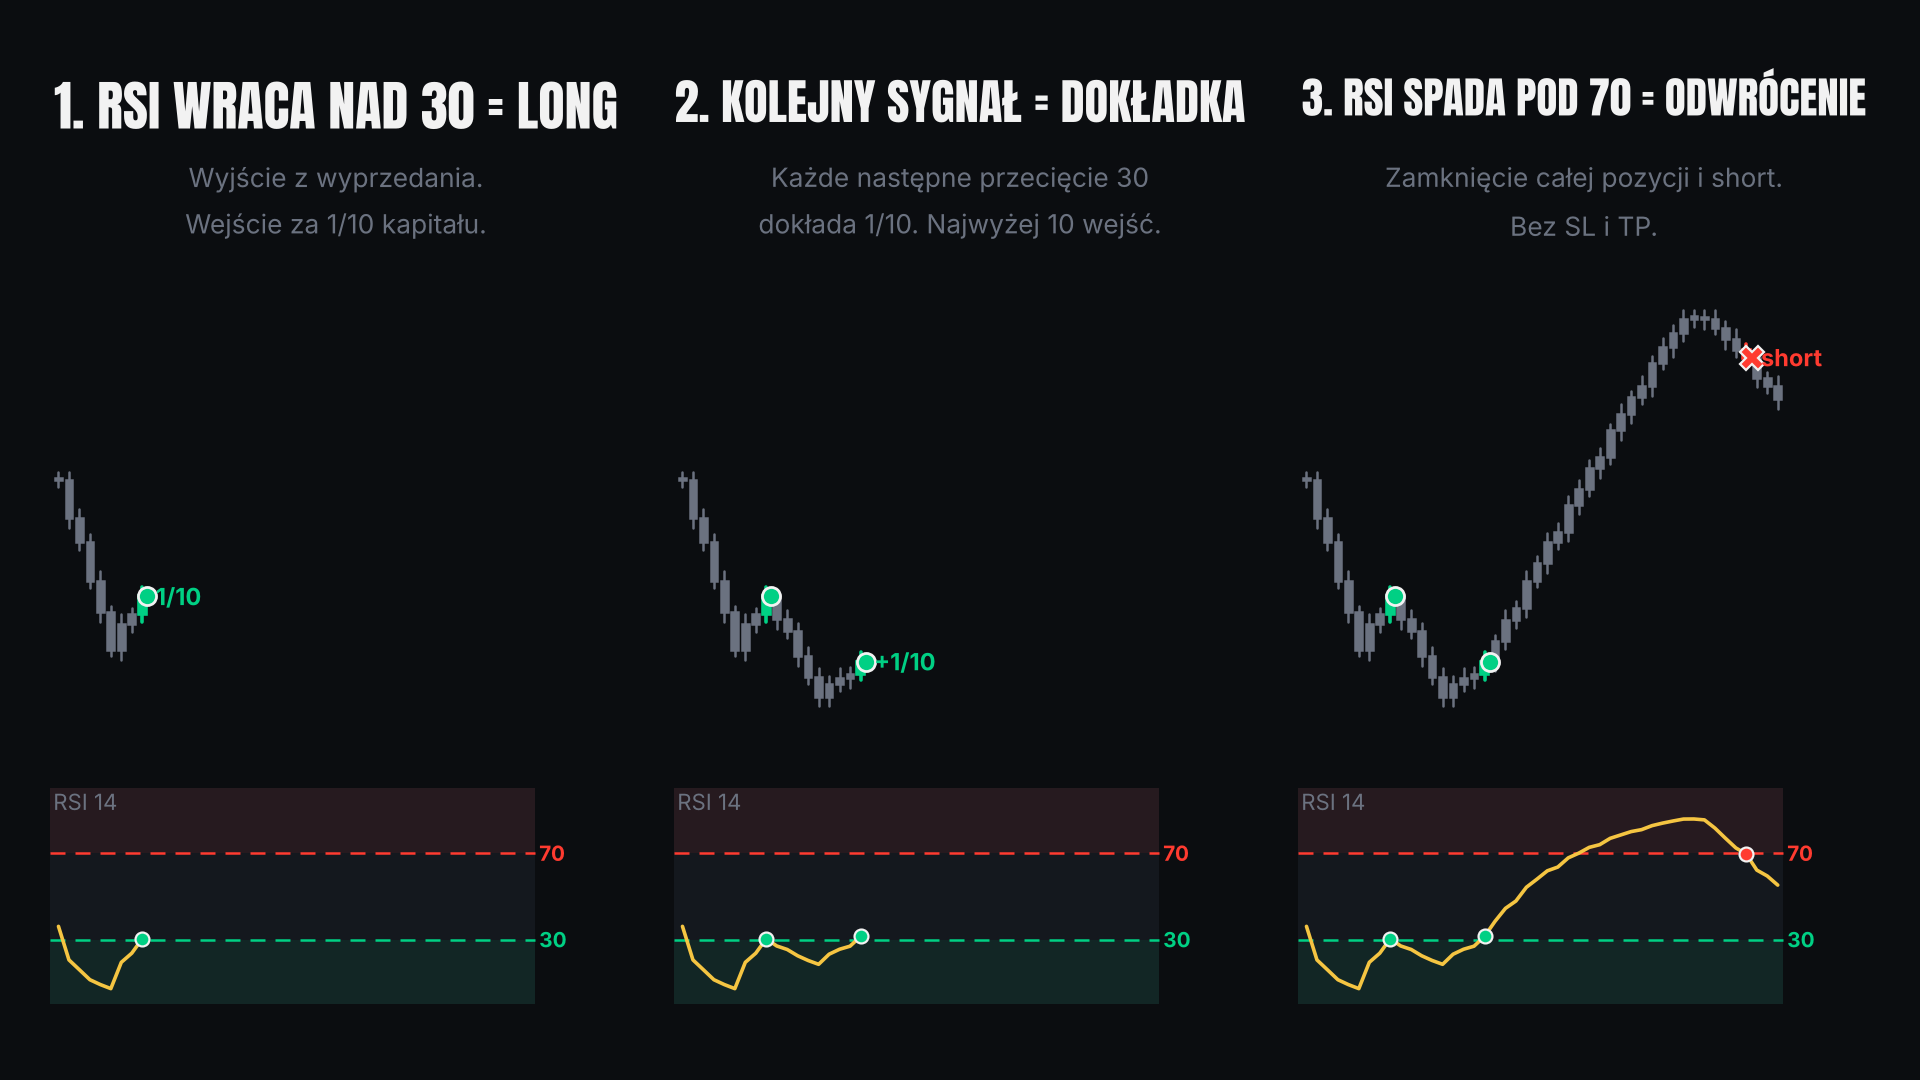
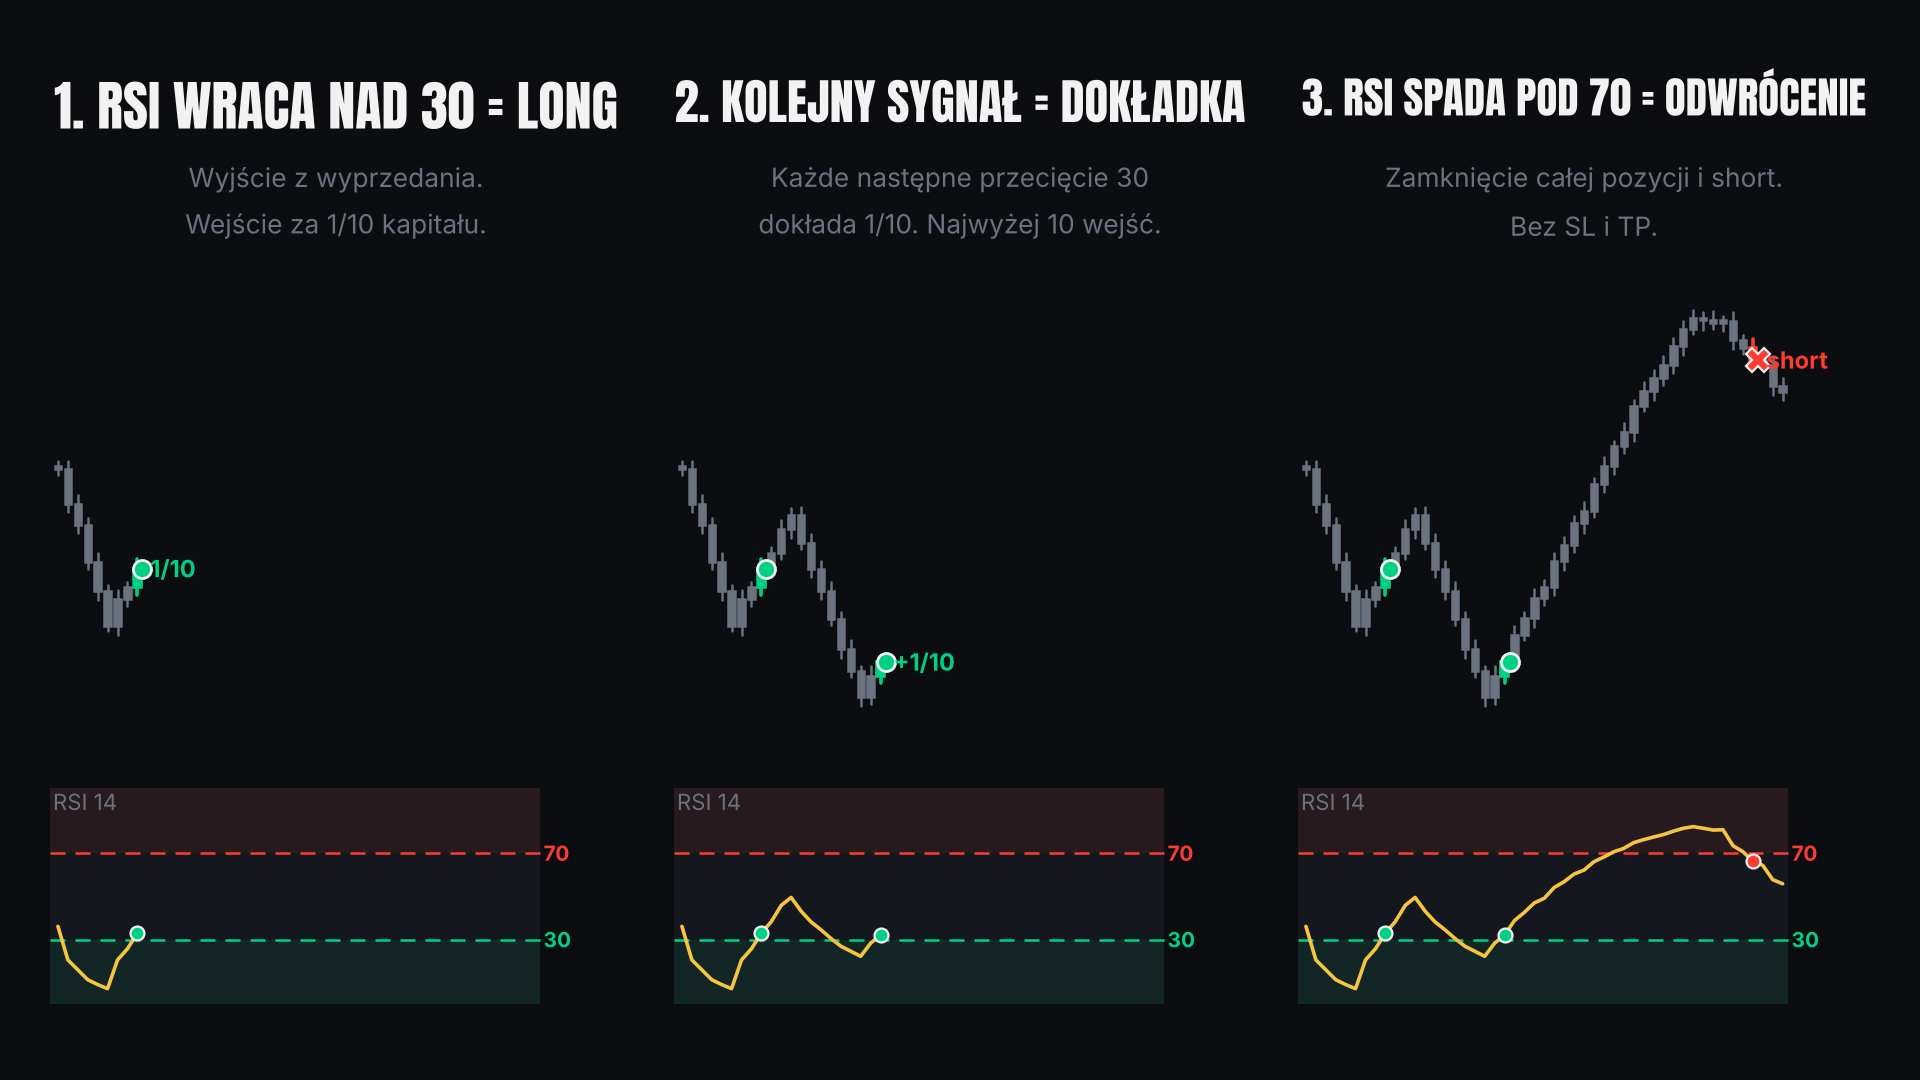
Plansza RSI 90%: RSI wyraźnie nad 30, powrót pod 30 i drugie wejście
Claude-Session: https://claude.ai/code/session_01DmSsWCFFfprBvBSMXnpg4v

diff --git a/narzedzia/plansze_objasniajace/reddit_plansze.py b/narzedzia/plansze_objasniajace/reddit_plansze.py
@@ -78,9 +78,10 @@ def risk_boxes(s, x1, x2, entry, sl, tp, long=True):
 
 # ───────────────────────── RSI 90% ─────────────────────────
 def rsi_90():
-    H, n = 30, 46
-    cl = path([(0, 110), (H, 108), (H + 5, 98), (H + 8, 101), (H + 13, 95), (H + 17, 97), (H + 22, 103),
-               (H + 30, 112), (H + 36, 118), (H + 39, 117.4), (H + 45, 113)], H + n, 0.35)
+    H, n = 30, 50
+    # RSI: wyjście nad 30, wyraźnie wyżej (~50), powrót pod 30 i drugie przecięcie w górę
+    cl = path([(0, 110), (H, 108), (H + 5, 98), (H + 11, 105), (H + 18, 93), (H + 21, 97), (H + 26, 103),
+               (H + 33, 112), (H + 39, 118), (H + 42, 117.4), (H + 48, 113)], H + n, 0.35)
     Ball = bars_from(cl, wick=0.55)
     r = rsi(cl, 14)
     B, r = Ball[H:], r[H:]
